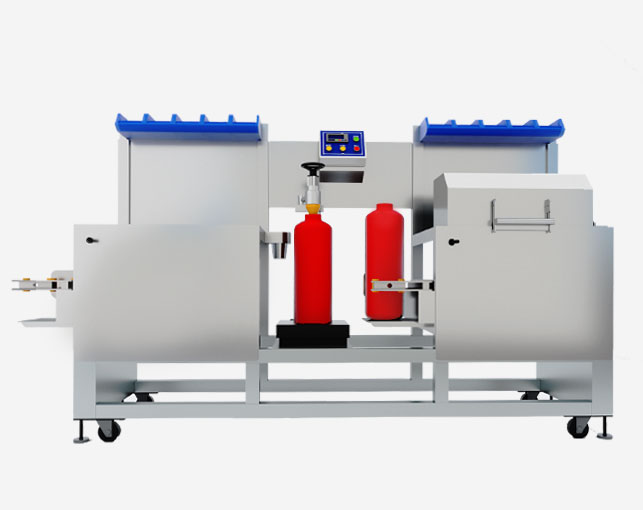
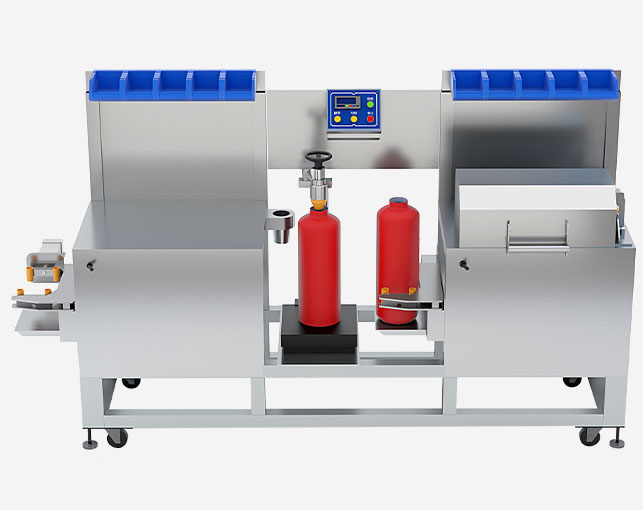
updated PD-E2 and delete some projects' pic

diff --git a/pd-e1.html b/pd-e1.html
@@ -124,7 +124,7 @@ https://templatemo.com/tm-518-sentra
                     <div class="masonry">
                         <div class="row">
                             <div class="col-md-8 col-md-offset-2">
-                                <h2>PD-E1 主機</h2>
+                                <h2>PD-E2 主機</h2>
                                 <div style="--swiper-navigation-color: #fff; --swiper-pagination-color: #fff" class="swiper mySwiper2 e1-Device_Swiper">  
                                   <div class="swiper-wrapper">
                                         <div class="swiper-slide">
@@ -138,12 +138,6 @@ https://templatemo.com/tm-518-sentra
                                         </div>
                                         <div class="swiper-slide">
                                             <img src="img/pde1/portfolio_4.jpg" />
-                                        </div>
-                                        <div class="swiper-slide">
-                                            <img src="img/pde1/portfolio_5.jpg" />
-                                        </div>
-                                        <div class="swiper-slide">
-                                            <img src="img/pde1/portfolio_6.jpg" />
                                         </div>
                                   </div>
                                   <div class="swiper-button-next"></div>
@@ -163,12 +157,6 @@ https://templatemo.com/tm-518-sentra
                                           </div>
                                           <div class="swiper-slide">
                                             <img src="img/pde1/portfolio_4.jpg" />
-                                          </div>
-                                          <div class="swiper-slide">
-                                            <img src="img/pde1/portfolio_5.jpg" />
-                                          </div>
-                                          <div class="swiper-slide">
-                                            <img src="img/pde1/portfolio_6.jpg" />
                                           </div>
                                     </div>
                                 </div>
@@ -201,7 +189,7 @@ https://templatemo.com/tm-518-sentra
                         <div class="section-heading">
                             <h4><em>產品介紹:</em></h4>
                             <p>
-                                PD-E1為<span class="highlight">乾粉滅火器</span>粉末換藥專用機組。<br>
+                                PD-E2為<span class="highlight">乾粉滅火器</span>粉末換藥專用機組。<br>
                                 搭配磅秤:<br>
                                 1.小磅秤(30 kg)，可小量加工<span class="highlight">手提式滅火器</span><br>
                                 2.大磅秤(300 kg)，可加工<span class="highlight">輪架式滅火器</span><br>
@@ -228,7 +216,7 @@ https://templatemo.com/tm-518-sentra
     <script>
       var swiper = new Swiper(".e1-Device-Preview", {
         spaceBetween: 10,
-        slidesPerView: 5,
+        slidesPerView: 4,
         freeMode: true,
         watchSlidesProgress: true,
       });

diff --git a/t21.html b/t21.html
@@ -136,9 +136,6 @@ https://templatemo.com/tm-518-sentra
                                         <div class="swiper-slide">
                                             <img src="img/t21/portfolio_3.jpg" />
                                         </div>
-                                        <div class="swiper-slide">
-                                            <img src="img/t21/portfolio_4.jpg" />
-                                        </div>
                                   </div>
                                   <div class="swiper-button-next"></div>
                                   <div class="swiper-button-prev"></div>
@@ -154,9 +151,6 @@ https://templatemo.com/tm-518-sentra
                                           </div>
                                           <div class="swiper-slide">
                                               <img src="img/t21/portfolio_3.jpg" />
-                                          </div>
-                                          <div class="swiper-slide">
-                                                <img src="img/t21/portfolio_4.jpg" />
                                           </div>
                                     </div>
                                 </div>
@@ -206,7 +200,7 @@ https://templatemo.com/tm-518-sentra
     <script>
         var swiper = new Swiper(".t21-Device-Preview", {
         spaceBetween: 10,
-        slidesPerView: 4,
+        slidesPerView: 3,
         freeMode: true,
         watchSlidesProgress: true,
         });

diff --git a/index.html b/index.html
@@ -410,18 +410,10 @@
                                         </li>  
                                     </ul>
                                 </div>
-
                                 <div id="tab4">
                                     <ul>
                                         <li>
-                                            
-                                                <!--
-
-                                                    產業機械
-
-                                                -->
-
-                                            
+                                            <!--<div class="item">產業機械</div>-->
                                         </li>                                
                                     </ul>
                                 </div>
